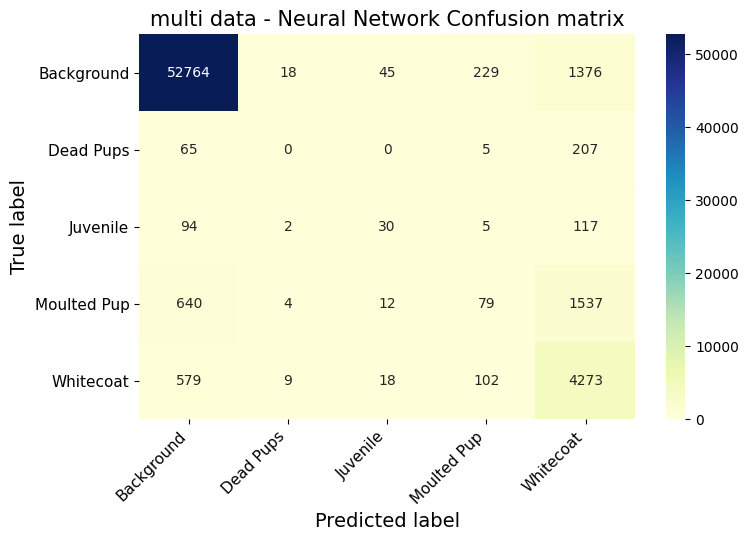
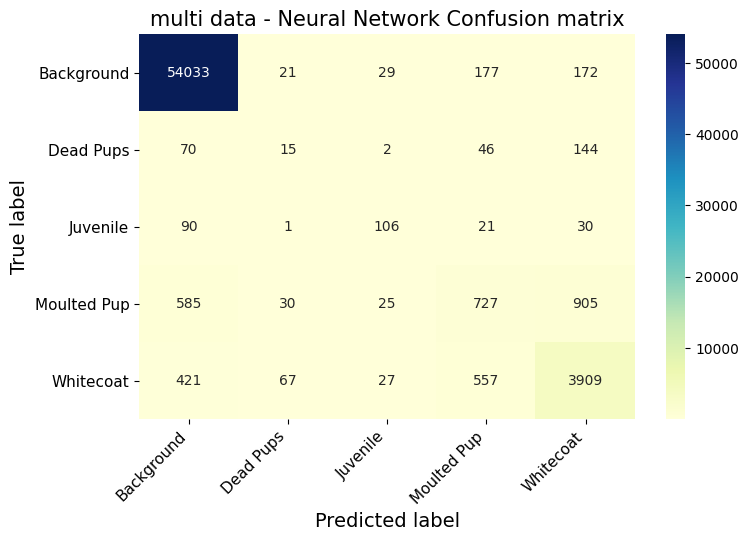
Grid search code + results on multi-MLP

diff --git a/src/classifiers.py b/src/classifiers.py
@@ -6,7 +6,7 @@ import seaborn as sns
 from sklearn.linear_model import LogisticRegression, SGDClassifier
 from sklearn.metrics import accuracy_score, classification_report, confusion_matrix, f1_score, precision_score, \
     recall_score
-from sklearn.model_selection import cross_val_predict
+from sklearn.model_selection import cross_val_predict, GridSearchCV
 from sklearn.neural_network import MLPClassifier
 from sklearn.svm import LinearSVC, SVC
 from sklearn.tree import DecisionTreeClassifier
@@ -21,16 +21,16 @@ kwargs = {
 
 class Classifier:
     """
-
+    Classifier class containing functions fit, evaluate and perform grid search.
     """
 
     def __init__(self, model: str, X, y, ground_truth):
         """
-
-        :param model:
-        :param X:
-        :param y:
-        :param ground_truth:
+        Initialise parameters.
+        :param model: string specifying which sklearn model to use.
+        :param X: processed data.
+        :param y: processed labels.
+        :param ground_truth: unprocessed labels.
         """
         self.X = X
         self.y = y
@@ -38,39 +38,47 @@ class Classifier:
         self.folds = 3
         self.predictions = None
 
-        # Load previously trained model.
-        if is_file_exists("../trained_classifiers/{}_{}.pkl".format(config.dataset, config.model)):
-            print("Loaded previously trained classifier.")
-            self.clf = load_model(config.dataset, config.model)
-        # Create new sklearn model instance and fit it.
-        else:
-            if model == "sgd":
-                self.clf = SGDClassifier(**kwargs, penalty="l2", fit_intercept=True, max_iter=10000, tol=1e-3,
-                                         n_jobs=-1)
-            elif model == "logistic":
-                self.clf = LogisticRegression(**kwargs, solver="liblinear", penalty="l2", fit_intercept=True,
-                                              max_iter=100, tol=1e-4, n_jobs=-1)  # Uses OvR
-            elif model == "svc_lin":
-                self.clf = LinearSVC(**kwargs, multi_class="ovr", penalty="l2", fit_intercept=True, max_iter=1000,
-                                     tol=1e-4)
-            elif model == "svc_poly":
-                self.clf = SVC(**kwargs, kernel='poly', degree=3, decision_function_shape="ovr", max_iter=1000,
-                               tol=1e-3)
-            elif model == "dt":
-                self.clf = DecisionTreeClassifier(**kwargs, criterion="gini", splitter="best")
-            elif model == "mlp":
-                self.clf = MLPClassifier(**kwargs, hidden_layer_sizes=(100,), activation="relu", solver="adam",
-                                         learning_rate="constant", learning_rate_init=0.6, momentum=0.9,
-                                         max_iter=100, tol=1e-5, n_iter_no_change=15, verbose=config.verbose_mode)
-            self.fit_classifier()
+        # Perform hyperparameter tuning (grid search) on the chosen model.
+        if config.is_grid_search:
+            self.clf = MLPClassifier(**kwargs, solver="adam", learning_rate="constant", verbose=config.verbose_mode)
+            self.grid_search()
 
-        self.k_fold_cross_validation()
-        self.evaluate_classifier()
+        # Fit, perform k-fold cross validation and evaluate a model.
+        else:
+            # Load previously trained model.
+            if is_file_exists("../trained_classifiers/{}_{}.pkl".format(config.dataset, config.model)):
+                print("Loaded previously trained classifier.")
+                self.clf = load_model(config.dataset, config.model)
+            # Create new sklearn model instance and fit it.
+            else:
+                if model == "mlp":
+                    self.clf = MLPClassifier(**kwargs, hidden_layer_sizes=(1000,), activation="relu", solver="adam",
+                                             learning_rate="constant", learning_rate_init=0.1, momentum=0.1,
+                                             verbose=config.verbose_mode)
+                elif model == "sgd":
+                    self.clf = SGDClassifier(**kwargs, penalty="l2", fit_intercept=True, max_iter=10000, tol=1e-3,
+                                             n_jobs=-1)
+                elif model == "logistic":
+                    self.clf = LogisticRegression(**kwargs, solver="liblinear", penalty="l2", fit_intercept=True,
+                                                  max_iter=100, tol=1e-4, n_jobs=-1)  # Uses OvR
+                elif model == "svc_lin":
+                    self.clf = LinearSVC(**kwargs, multi_class="ovr", penalty="l2", fit_intercept=True, max_iter=1000,
+                                         tol=1e-4)
+                elif model == "svc_poly":
+                    self.clf = SVC(**kwargs, kernel='poly', degree=3, decision_function_shape="ovr", max_iter=1000,
+                                   tol=1e-3)
+                elif model == "dt":
+                    self.clf = DecisionTreeClassifier(**kwargs, criterion="gini", splitter="best")
+                print("Fitting classifier.")
+                self.fit_classifier()
+
+            self.k_fold_cross_validation()
+            self.evaluate_classifier()
 
     @make_spin(Box1, "Fitting {}...".format(get_classifier_name(config.model)))
     def fit_classifier(self) -> None:
         """
-
+        Fit the classifier and save the model using Pickle.
         :return:
         """
         self.clf.fit(self.X, self.y)
@@ -79,23 +87,23 @@ class Classifier:
     @make_spin(Box1, "Making predictions...")
     def single_prediction(self) -> None:
         """
-
-        :return:
+        Make a prediction on the data.
+        :return: None.
         """
         self.predictions = self.clf.predict(self.X)
 
     @make_spin(Box1, "Performing k-fold cross validation...")
     def k_fold_cross_validation(self) -> None:
         """
-
-        :return:
+        Apply k-fold cross validation.
+        :return: None.
         """
         self.predictions = cross_val_predict(self.clf, self.X, self.y, cv=self.folds)
 
     def evaluate_classifier(self) -> None:
         """
-
-        :return:
+        Measure accuracy, precision, recall, f1-score and confusion matrix.
+        :return: None.
         """
         accuracy = accuracy_score(self.ground_truth, self.predictions)
         print("Average accuracy over {} folds: {}%".format(self.folds, round(accuracy * 100, 2)))
@@ -123,14 +131,52 @@ class Classifier:
         _plot_pretty_confusion_matrix(cm, cm_labels, False)
         _plot_pretty_confusion_matrix(cm, cm_labels, True)
 
+    @make_spin(Box1, "Performing grid search...")
+    def grid_search(self):
+        """
+        Perform grid search on the defined parameters and save the results in a CSV file.
+        :return: None.
+        """
+        parameters = {
+            'hidden_layer_sizes': [(100,), (475,), (1000,)],
+            'activation': ["relu", "tanh"],
+            'learning_rate_init': [0.1, 0.5, 1.0],
+            'momentum': [0.1, 0.5, 1.0]
+        }
+
+        scoring = str()
+        if config.dataset == "binary":
+            scoring = "f1"
+        elif config.dataset == "multi":
+            scoring = "f1_weighted"
+        gs = GridSearchCV(
+            param_grid=parameters,
+            estimator=self.clf,
+            cv=self.folds,
+            scoring=scoring
+        )
+        gs_results = gs.fit(self.X, self.y)
+        gs_results_df = pd.DataFrame(gs_results.cv_results_)
+        gs_results_df.to_csv("../results/grid_search/{}_{}_gs.csv".format(config.dataset, config.model))
+
+        # Top 5 hyperparameters found for Lasso Regression.
+        print("Top 5 hyperparameters combinations found:")
+        gs_results_df.sort_values(by=['rank_test_score']).head(5)
+
+        # Best model found by grid search algorithm for Lasso Regression.
+        final_model = gs_results.best_estimator_
+        print("\nBest model hyperparameters found by randomised search algorithm:")
+        print(final_model)
+        save_model(final_model, config.dataset, "multi_mlp_search_best")
+
 
 def _plot_pretty_confusion_matrix(cm, labels: list, is_normalised: bool) -> None:
     """
-
-    :param cm:
-    :param labels:
-    :param is_normalised:
-    :return:
+    Plot the confusion matrix using seaborn to prettify the matrix.
+    :param cm: the confusion matrix.
+    :param labels: the labels to print.
+    :param is_normalised: boolean to print a normalised or unnormalised matrix.
+    :return: None.
     """
     annot_format = "d"
     title = "{} data - {} Confusion matrix".format(config.dataset, get_classifier_name(config.model))
